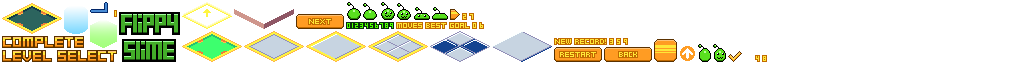
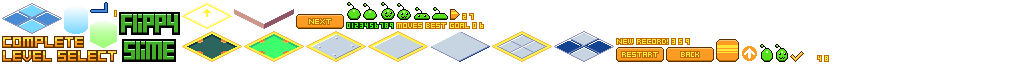
some work on lower layer tiles

Changed region(s): [[0.3438, 0.5, 0.8125, 0.9688], [0.1562, 0.5312, 0.3125, 0.9062], [0.0, 0.0625, 0.0625, 0.5]]

diff --git a/core/src/com/distraction/fs2/tilemap/TileMap.kt b/core/src/com/distraction/fs2/tilemap/TileMap.kt
@@ -9,7 +9,6 @@ import com.distraction.fs2.tilemap.tileobjects.Arrow
 import com.distraction.fs2.tilemap.tileobjects.SuperJump
 import com.distraction.fs2.tilemap.tileobjects.Teleport
 import com.distraction.fs2.tilemap.tileobjects.TileObject
-import java.lang.IllegalStateException
 import kotlin.math.max
 import kotlin.math.min
 
@@ -29,9 +28,9 @@ class TileMap(val context: Context, level: Int) : Tile.TileMoveListener {
     val numRows = mapData.numRows
     val numCols = mapData.numCols
     val map = parseMapData(mapData.map)
+    val bgMap = mapData.bgMap
 
-    private val p = Vector3()
-    private val pv = Vector3()
+    private val bgp = Vector3()
 
     val pixel = context.assets.getAtlas().findRegion("pixel")
 
@@ -108,7 +107,8 @@ class TileMap(val context: Context, level: Int) : Tile.TileMoveListener {
 
     fun getTile(row: Int, col: Int) = map[toIndex(row, col)]
 
-    fun getTileImage(tileIndex: Int) = tileset[tileIndex] ?: throw IllegalStateException("invalid tile index")
+    fun getTileImage(tileIndex: Int) = tileset[tileIndex]
+            ?: throw IllegalStateException("invalid tile index: $tileIndex")
 
     fun toIsometric(x: Float, y: Float, p: Vector3) {
         val xo = x / TILE_SIZE
@@ -159,7 +159,6 @@ class TileMap(val context: Context, level: Int) : Tile.TileMoveListener {
             }
         }
         otherObjects.forEach {
-//            log("tile object : $it, currentTile = ${it.currentTile}")
             it.currentTile?.let { tile ->
                 if (tile.isMovingTile()) {
                     it.setPosition(tile.p.x, tile.p.y)
@@ -170,7 +169,19 @@ class TileMap(val context: Context, level: Int) : Tile.TileMoveListener {
         otherObjects.removeAll { it.remove }
     }
 
+    private fun renderBg(sb: SpriteBatch) {
+        for (row in 0 until numRows) {
+            for (col in 0 until numCols) {
+                val image = getTileImage(bgMap[toIndex(row, col)])
+                toPosition(row, col, bgp)
+                toIsometric(bgp.x, bgp.y, bgp)
+                sb.draw(image, bgp.x - TileMap.TILE_IWIDTH / 2, bgp.y - TileMap.TILE_IHEIGHT / 2 - 5)
+            }
+        }
+    }
+
     fun render(sb: SpriteBatch) {
+        renderBg(sb)
         for (diag in 0 until (numRows + numCols)) {
             val startCol = max(0, diag - numRows)
             val count = min(diag, min(numCols - startCol, numRows))

diff --git a/core/src/com/distraction/fs2/tilemap/GameData.kt b/core/src/com/distraction/fs2/tilemap/GameData.kt
@@ -7,18 +7,23 @@ import com.distraction.fs2.getAtlas
 class GameData(val context: Context) {
 
     val mapData = arrayOf(
+//            MapData(numRows = 4, numCols = 4,
+//            map = intArrayOf(
+//                    0,0,0,0,
+//                    0,e,e,0,
+//                    0,e,e,0,
+//                    0,0,0,0
+//            ), startRow = 0, startCol = 0),
             MapData(
-                    numRows = 5,
-                    numCols = 5,
+                    numRows = 5, numCols = 5,
                     map = intArrayOf(
                             0, 0, 0, e, e,
-                            0, e, 4, e, e,
-                            0, e, 4, e, 0,
+                            0, e, 3, e, e,
+                            0, e, 3, e, 0,
                             e, e, e, e, 0,
                             e, e, 0, 0, 0
                     ),
-                    startRow = 2,
-                    startCol = 2,
+                    startRow = 2, startCol = 2,
                     path = arrayListOf(
                             arrayListOf(
                                     PathPointData(1, 2, 2f),
@@ -86,13 +91,16 @@ class GameData(val context: Context) {
             4 to context.assets.getAtlas().findRegion("tileperm3"),
 
             100 to context.assets.getAtlas().findRegion("tilegrayfloor"),
-            101 to context.assets.getAtlas().findRegion("tilebluegraycheckeredfloor")
+            101 to context.assets.getAtlas().findRegion("tilebluegraycheckeredfloor"),
+            102 to context.assets.getAtlas().findRegion("tilebluecheckeredfloor")
     )
 
     fun isWalkableTile(index: Int) = index < 100
 
     companion object {
         const val e = -1
+        const val g = 100
+        const val c = 101
     }
 
 }
@@ -101,7 +109,7 @@ class MapData(
         val numRows: Int,
         val numCols: Int,
         var map: IntArray,
-        var bgMap: IntArray = IntArray(map.size) { 3 },
+        var bgMap: IntArray = IntArray(map.size) { 102 },
         val startRow: Int,
         val startCol: Int,
         val objects: ArrayList<TileObjectData> = arrayListOf(),
